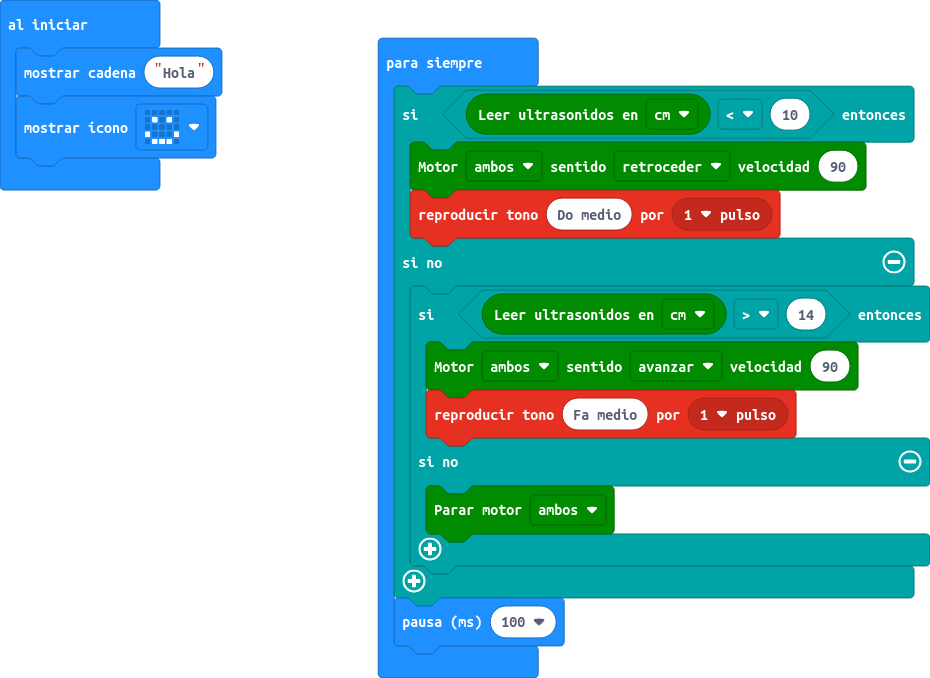
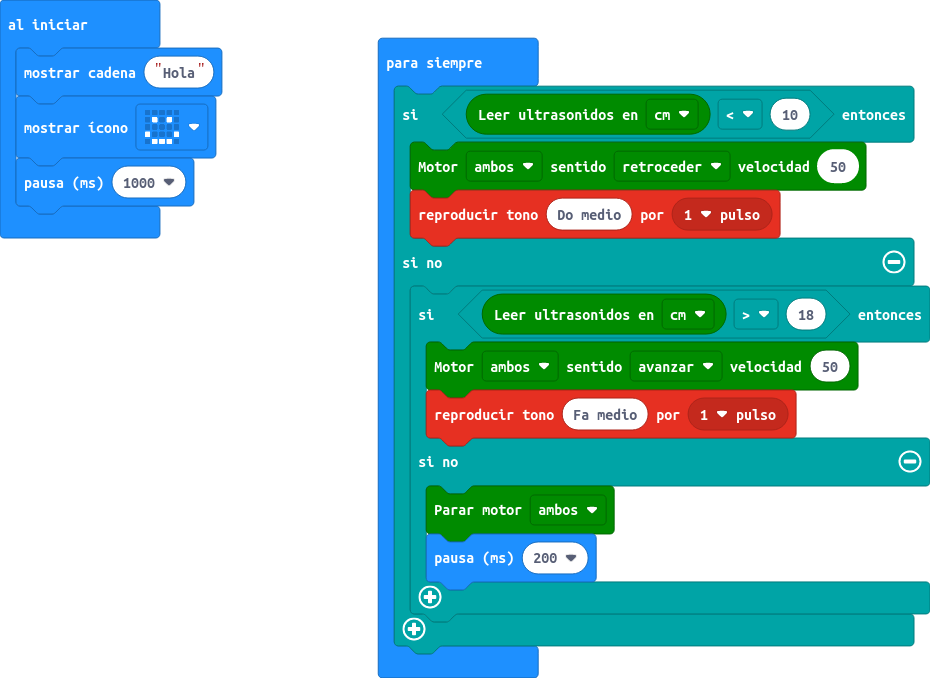
Mejoras al programa. Cambio umbrales y pongo pausa en el motor al pararse

Changed region(s): [[0.4054, 0.7743, 1.0, 0.9912], [0.0, 0.2168, 0.2183, 0.3717], [0.8731, 0.2168, 0.9355, 0.2788]]

diff --git a/main.ts b/main.ts
@@ -1,16 +1,17 @@
 basic.showString("Hola")
 basic.showIcon(IconNames.Happy)
+basic.pause(1000)
 basic.forever(function () {
     if (maqueen.Ultrasonic(PingUnit.Centimeters) < 10) {
-        maqueen.motorRun(maqueen.Motors.All, maqueen.Dir.CCW, 90)
+        maqueen.motorRun(maqueen.Motors.All, maqueen.Dir.CCW, 50)
         music.playTone(262, music.beat(BeatFraction.Whole))
     } else {
-        if (maqueen.Ultrasonic(PingUnit.Centimeters) > 14) {
-            maqueen.motorRun(maqueen.Motors.All, maqueen.Dir.CW, 90)
+        if (maqueen.Ultrasonic(PingUnit.Centimeters) > 18) {
+            maqueen.motorRun(maqueen.Motors.All, maqueen.Dir.CW, 50)
             music.playTone(349, music.beat(BeatFraction.Whole))
         } else {
             maqueen.motorStop(maqueen.Motors.All)
+            basic.pause(200)
         }
     }
-    basic.pause(100)
 })
